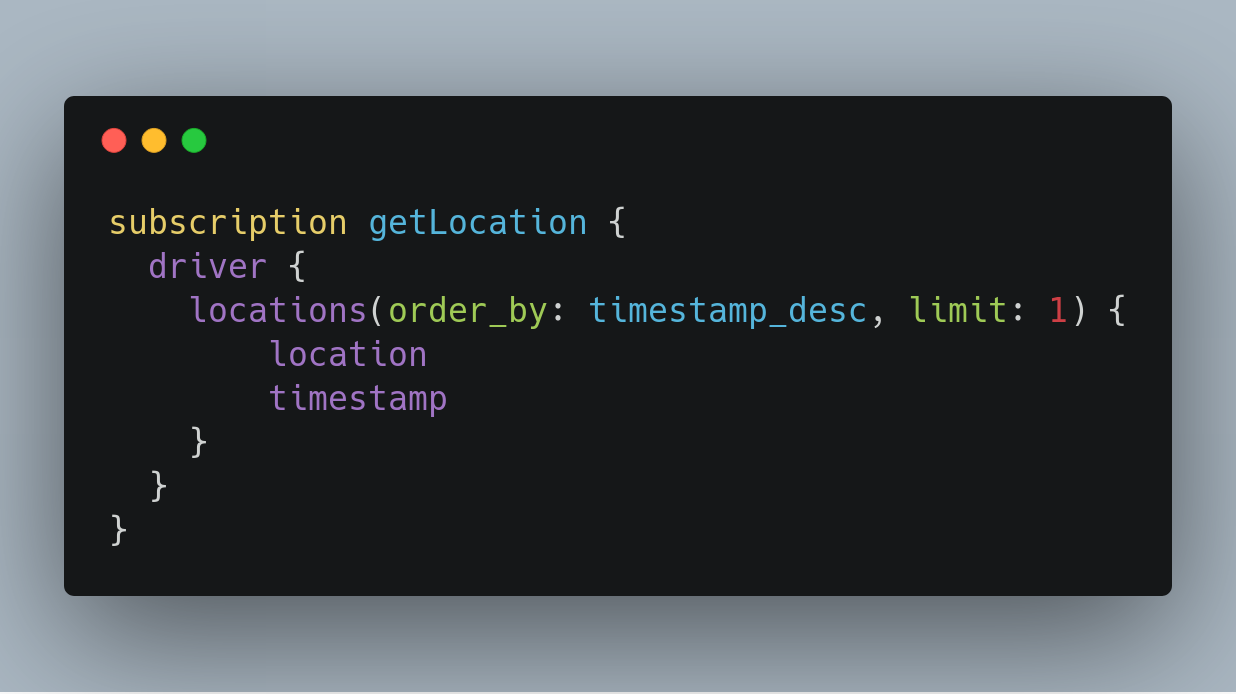
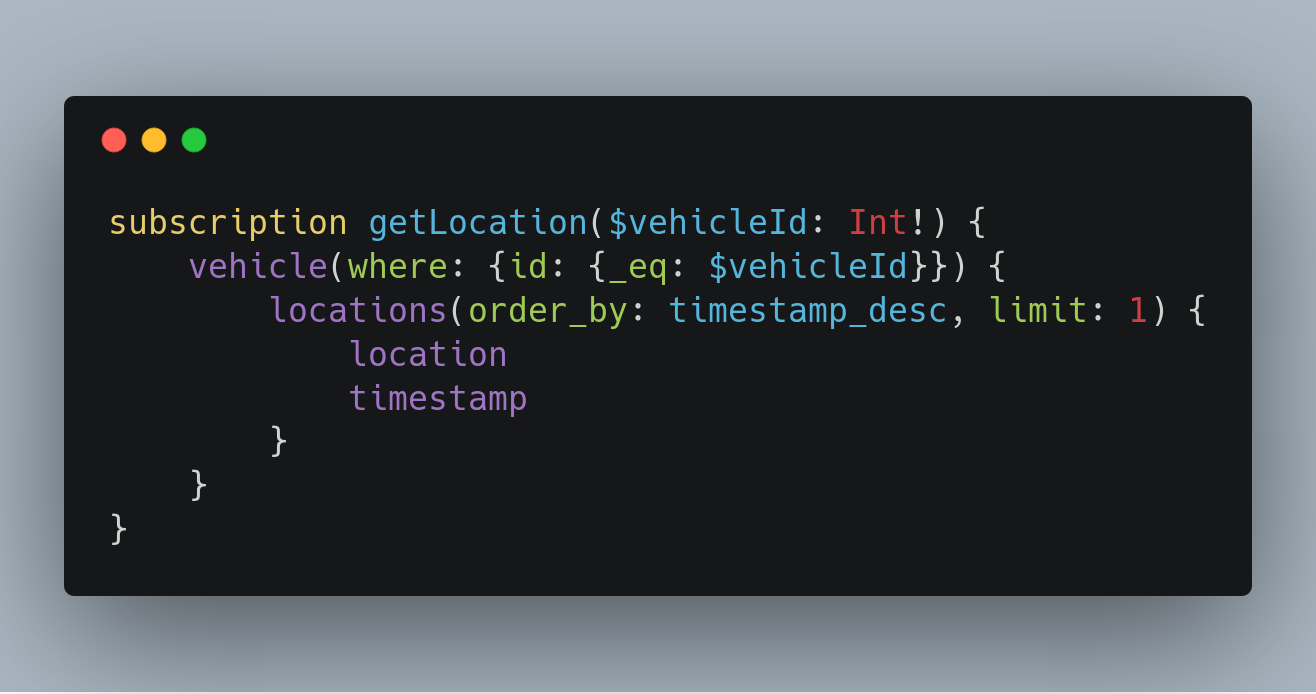
Renames everything to vehicle

diff --git a/location-react/src/Vehicle/Vehicle.js b/location-react/src/Vehicle/Vehicle.js
@@ -11,14 +11,14 @@ import uuidv4 from 'uuid/v4';
 import App from '../App/App';
 import UserInfo from '../UserInfo/UserInfo';
 import locationData from '../mapInfo/location';
-import './Driver.css';
+import './Vehicle.css';
 
-class Driver extends Component { constructor() {
+class Vehicle extends Component { constructor() {
     super();
     this.state = {};
-    this.loadDriverInfo = this.loadDriverInfo.bind(this);
-    this.state.driverInfo = {};
-    this.state.driverId = uuidv4();
+    this.loadVehicleInfo = this.loadVehicleInfo.bind(this);
+    this.state.vehicleInfo = {};
+    this.state.vehicleId = uuidv4();
     this.state.startTracking = false;
     this.state.delay = 3000;
     this.state.locationId = 0;
@@ -29,9 +29,9 @@ class Driver extends Component { constructor() {
     if (locationData.length === this.state.locationId) {
       this.setState({ ...this.state, locationId: 0 });
     }
-    const insert_driver_location = gql`
-      mutation insert_driver_location ($objects: [driver_location_insert_input!]! )  {
-        insert_driver_location (objects: $objects){
+    const insert_vehicle_location = gql`
+      mutation insert_vehicle_location ($objects: [vehicle_location_insert_input!]! )  {
+        insert_vehicle_location (objects: $objects){
           returning {
             id
           }
@@ -41,14 +41,14 @@ class Driver extends Component { constructor() {
     const variables = {
       "objects": [
         {
-          "driver_id": this.state.driverId,
+          "vehicle_id": this.state.vehicleId,
           "location": locationData[this.state.locationId],
         }
       ]
     };
     this.props.client.mutate(
       {
-        mutation: insert_driver_location,
+        mutation: insert_vehicle_location,
         variables: { ...variables },
       }
     ).then((response) => {
@@ -57,17 +57,17 @@ class Driver extends Component { constructor() {
     })
     .catch((error) => console.error(error));
   }
-  loadDriverInfo(e) {
-    const driverId = e.target.getAttribute('data-driver-id');
-    if ( driverId ){
-      this.setState({ ...this.state, driverId: parseInt(driverId, 10)});
+  loadVehicleInfo(e) {
+    const vehicleId = e.target.getAttribute('data-vehicle-id');
+    if ( vehicleId ){
+      this.setState({ ...this.state, vehicleId: parseInt(vehicleId, 10)});
     }
   }
   handleTrackLocationClick() {
     this.setState({ ...this.state, isLoading: true });
-    const insert_driver = gql`
-      mutation insert_driver ($objects: [driver_insert_input!]! )  {
-        insert_driver (objects: $objects){
+    const insert_vehicle = gql`
+      mutation insert_vehicle ($objects: [vehicle_insert_input!]! )  {
+        insert_vehicle (objects: $objects){
           returning {
             id
           }
@@ -77,14 +77,14 @@ class Driver extends Component { constructor() {
     const variables = {
       "objects": [
         {
-          "id": this.state.driverId,
-          "name": this.state.driverId,
+          "id": this.state.vehicleId,
+          "name": this.state.vehicleId,
         }
       ]
     };
     this.props.client.mutate(
       {
-        mutation: insert_driver,
+        mutation: insert_vehicle,
         variables: { ...variables },
       }
     ).then((response) => {
@@ -102,8 +102,8 @@ class Driver extends Component { constructor() {
   }
   render() {
     const GET_USERS = gql`
-        subscription getDriver($driverId: String!) {
-          driver (where: { id: { _eq: $driverId }}) {
+        subscription getVehicle($vehicleId: String!) {
+          vehicle (where: { id: { _eq: $vehicleId }}) {
             id
             name
           }
@@ -120,15 +120,15 @@ class Driver extends Component { constructor() {
             [
               <ApolloConsumer key={'1'}>
                 {client => (
-                  <Subscription subscription={GET_USERS} variables={{ driverId: this.state.driverId }}>
+                  <Subscription subscription={GET_USERS} variables={{ vehicleId: this.state.vehicleId }}>
                     {({ loading, error, data }) => {
                       if (loading) return <p>Loading...</p>;
                       if (error) return <p>Error!</p>;
 
                       return (
-                        <div className="list_of_drivers">
+                        <div className="list_of_vehicles">
                           <div>
-                            <b>Vehicle ID</b>: { this.state.driverId }
+                            <b>Vehicle ID</b>: { this.state.vehicleId }
                           </div>
                         </div>
                       );
@@ -136,10 +136,10 @@ class Driver extends Component { constructor() {
                   </Subscription>
                 )}
               </ApolloConsumer>,
-              <App key='2' driverId={ this.state.driverId } />
+              <App key='2' vehicleId={ this.state.vehicleId } />
             ]
             :
-            <UserInfo userId={ this.state.driverId } handleTrackLocationClick={ this.handleTrackLocationClick.bind(this) } isLoading={ this.state.isLoading }/>
+            <UserInfo userId={ this.state.vehicleId } handleTrackLocationClick={ this.handleTrackLocationClick.bind(this) } isLoading={ this.state.isLoading }/>
           }
         </div>
       </div>
@@ -150,7 +150,7 @@ class Driver extends Component { constructor() {
 const ApolloWrappedComponent = () => {
   return (
     <ApolloProvider client={client}>
-      <Driver client={ client }/>
+      <Vehicle client={ client }/>
     </ApolloProvider>
   );
 };

diff --git a/location-react/src/App/App.js b/location-react/src/App/App.js
@@ -14,18 +14,18 @@ class App extends Component {
     super(props);
 
     this.state = {
-      driverId: props.driverId,
+      vehicleId: props.vehicleId,
     }
   }
   componentWillReceiveProps(nextProps) {
-    if ( nextProps.driverId !== this.props.driverId ) {
-      this.setState({ ...this.state, driverId: nextProps.driverId });
+    if ( nextProps.vehicleId !== this.props.vehicleId ) {
+      this.setState({ ...this.state, vehicleId: nextProps.vehicleId });
     }
   }
   render() {
     const LOCATION_SUBSCRIPTION = gql`
-        subscription getLocation($driverId: Int!) {
-            driver(where: {id: {_eq: $driverId}}) {
+        subscription getLocation($vehicleId: Int!) {
+            vehicle(where: {id: {_eq: $vehicleId}}) {
                 locations(order_by: timestamp_desc, limit: 1) {
                     location
                     timestamp
@@ -39,18 +39,18 @@ class App extends Component {
     return (
       <ApolloConsumer>
         {client => (
-          <Subscription subscription={LOCATION_SUBSCRIPTION} variables={{driverId: this.props.driverId}}>
+          <Subscription subscription={LOCATION_SUBSCRIPTION} variables={{vehicleId: this.props.vehicleId}}>
             {({ loading, error, data }) => {
               if (loading) return <p>Loading...</p>;
               if (error) return <p>Error! </p>;
 
               let latestLocation = null;
-              const driver = data.driver[0];
-              const latestLocationObject = driver.locations[0];
+              const vehicle = data.vehicle[0];
+              const latestLocationObject = vehicle.locations[0];
               if (latestLocationObject) {
                 latestLocation = latestLocationObject.location;
               }
-              const driverLocation = {
+              const vehicleLocation = {
                 'width': '100%',
                 'marginBottom': '20px',
               };
@@ -58,7 +58,7 @@ class App extends Component {
                 'width': '100%',
               };
               return (
-                <div style={ driverLocation }>
+                <div style={ vehicleLocation }>
                   <div className="row ">
                     <div className="col-md-6 col-xs-12 request_block">
                       <div className="subscription_wrapper">
@@ -92,7 +92,7 @@ class App extends Component {
 }
 
 App.propTypes = {
-  driverId: PropTypes.string.isRequired,
+  vehicleId: PropTypes.string.isRequired,
 };
 
 const ApolloWrappedComponent = (props) => {

diff --git a/location-react/src/Vehicle/Vehicle.css b/location-react/src/Vehicle/Vehicle.css
@@ -1,4 +1,4 @@
-.list_of_drivers {
+.list_of_vehicles {
   width: 50%;
   margin: 0 auto;
   padding-bottom: 20px;
@@ -6,17 +6,17 @@
   margin-bottom: 20px;
 }
 
-.list_of_drivers h3 {
+.list_of_vehicles h3 {
   margin-bottom: 0px;
 }
 
-.list_of_drivers .driver_text {
+.list_of_vehicles .vehicle_text {
   font-size: 12px;
   display: inline-block;
   font-weight: 500;
   margin-bottom: 10px;
 }
 
-.list_of_drivers .commuter_info {
+.list_of_vehicles .commuter_info {
   font-size: 14px;
 }

diff --git a/location-react/src/index.js b/location-react/src/index.js
@@ -2,11 +2,11 @@ import React from 'react';
 import ReactDOM from 'react-dom';
 import './index.css';
 import '../node_modules/bootstrap/dist/css/bootstrap.min.css';
-import Driver from './Driver/Driver';
+import Vehicle from './Vehicle/Vehicle';
 
 // Use the client just as before
 // import { BrowserRouter as Router, Route } from 'react-router-dom';
 
 ReactDOM.render(
-  <Driver />,
+  <Vehicle />,
   document.getElementById('root'));
